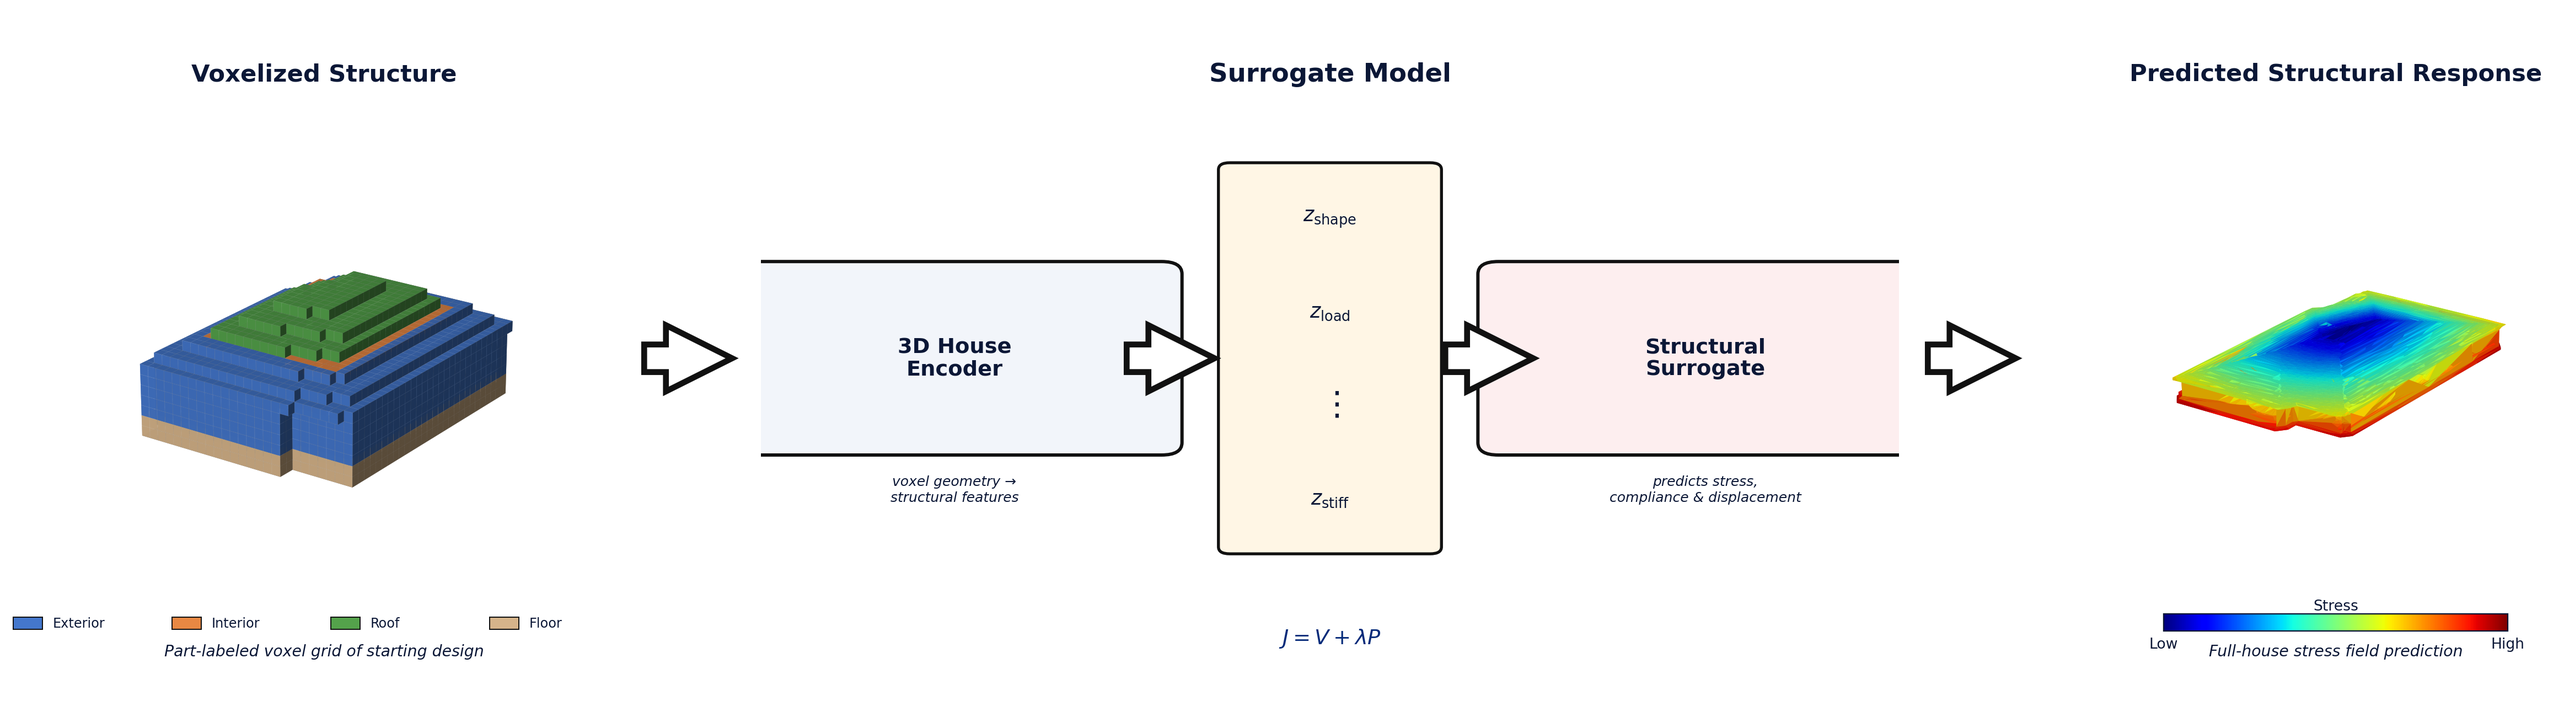
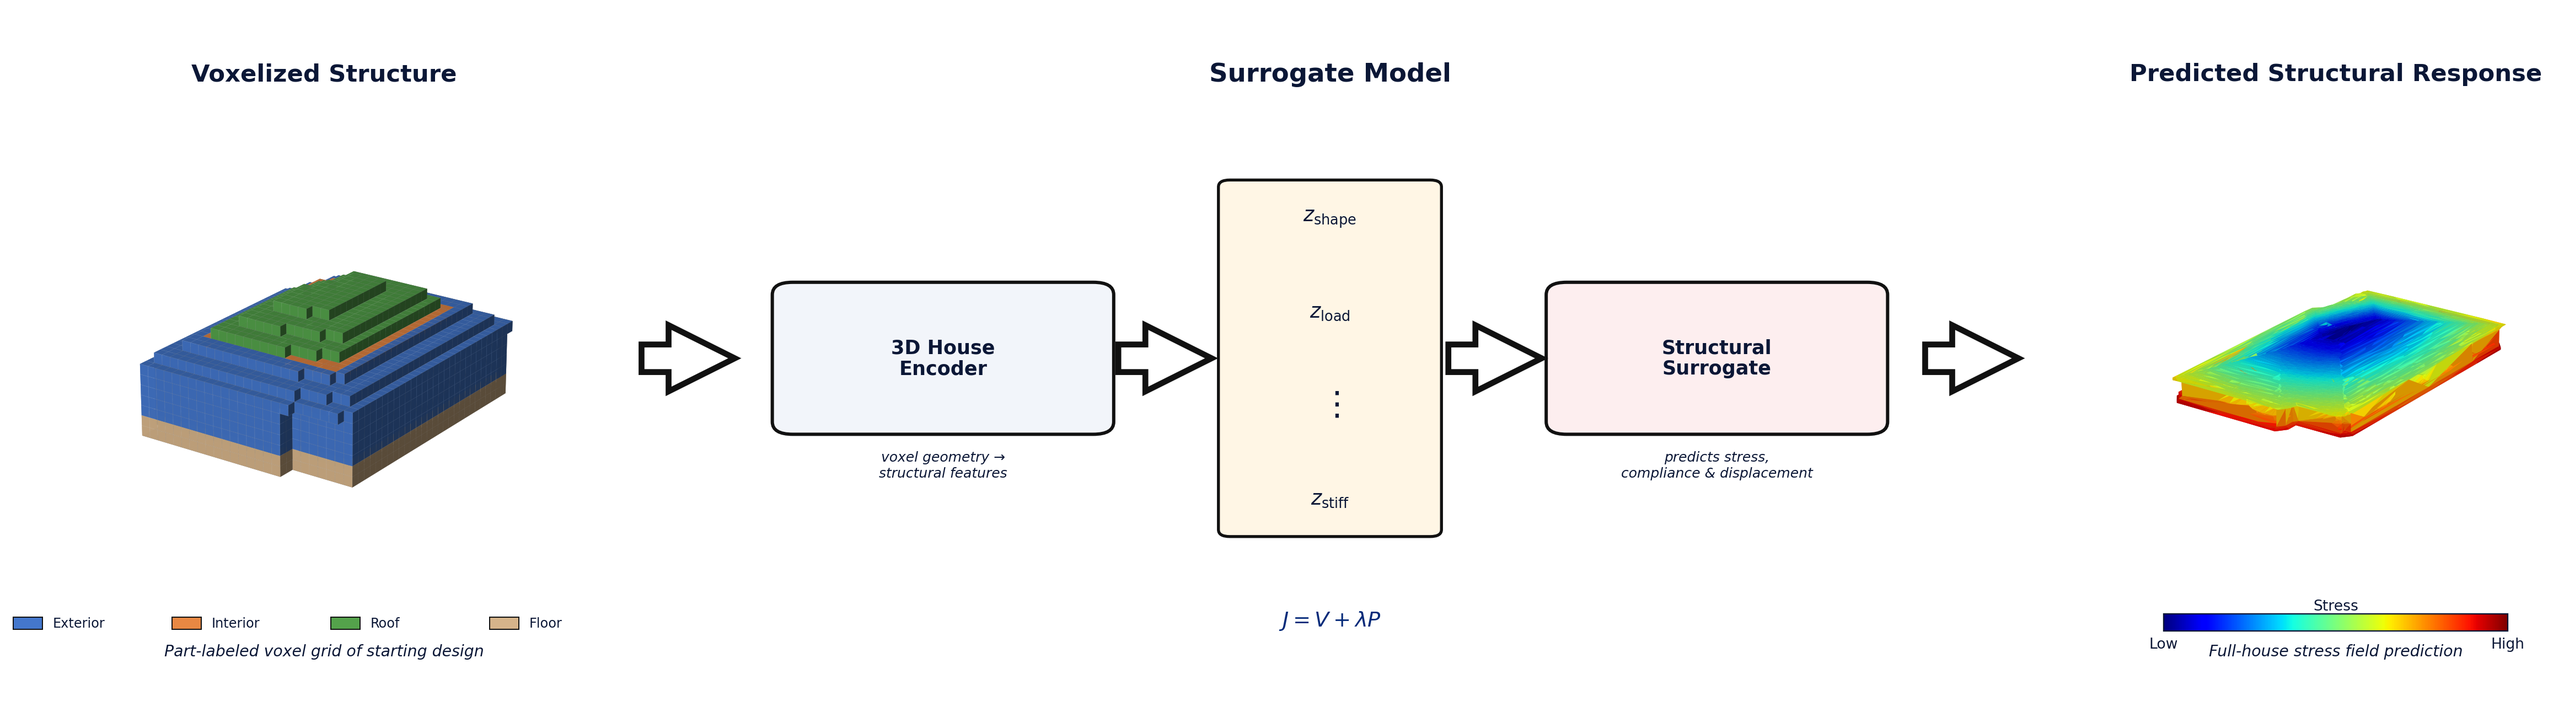
problem framing: fix box clipping, match arrow edges to box edges

diff --git a/generate_problem_framing.py b/generate_problem_framing.py
@@ -30,7 +30,7 @@ ROOF = "#54A24B"
 SLAB = "#D6B48A"
 ARROW_LW  = 3.2
 ARROW_SCALE = 30
-ARROW_DX  = 0.036   # arrow length in figure coords – fits all 4 gaps
+ARROW_DX  = 0.038   # fits inside smallest gap (0.047) with clearance
 TITLE_Y   = 0.870
 SUB_Y     = 0.118   # subtitle row y
 LEG_Y     = 0.147   # legend / colorbar row y
@@ -339,16 +339,21 @@ fig = plt.figure(figsize=(20, 5.8), facecolor=WHITE)
 arrow_y = PANEL_Y + PANEL_H * 0.50
 
 # ── All 4 identical arrows in figure coordinates ──────────────────────────────
-# Outer left: centred in gap between left panel and enc box
-_enc_r_fig  = MID_X + MID_W * 0.310   # enc box right edge
-_vec_l_fig  = MID_X + MID_W * 0.410   # vec box left edge
-_vec_r_fig  = MID_X + MID_W * 0.590   # vec box right edge
-_dec_l_fig  = MID_X + MID_W * 0.690   # dec box left edge
+# Box edges in ax_mid fractions (must match FancyBboxPatch positions below)
+_ENC_R_AX = 0.30   # enc box right edge in ax_mid
+_VEC_L_AX = 0.41   # vec box left  edge in ax_mid
+_VEC_R_AX = 0.59   # vec box right edge in ax_mid
+_DEC_L_AX = 0.70   # dec box left  edge in ax_mid
 
-_a1_cx = (LEFT_X + PANEL_W + MID_X)       / 2   # outer-left gap centre
-_a2_cx = (_enc_r_fig + _vec_l_fig)         / 2   # inner gap 1 centre
-_a3_cx = (_vec_r_fig + _dec_l_fig)         / 2   # inner gap 2 centre
-_a4_cx = (MID_X + MID_W + RIGHT_X)        / 2   # outer-right gap centre
+_enc_r_fig = MID_X + MID_W * _ENC_R_AX
+_vec_l_fig = MID_X + MID_W * _VEC_L_AX
+_vec_r_fig = MID_X + MID_W * _VEC_R_AX
+_dec_l_fig = MID_X + MID_W * _DEC_L_AX
+
+_a1_cx = (LEFT_X + PANEL_W + MID_X)   / 2   # outer-left  gap centre
+_a2_cx = (_enc_r_fig + _vec_l_fig)     / 2   # inner gap 1 centre
+_a3_cx = (_vec_r_fig + _dec_l_fig)     / 2   # inner gap 2 centre
+_a4_cx = (MID_X + MID_W + RIGHT_X)    / 2   # outer-right gap centre
 
 for _cx in [_a1_cx, _a2_cx, _a3_cx, _a4_cx]:
     _sx = _cx - ARROW_DX / 2
@@ -400,27 +405,28 @@ fig.text(MID_X + MID_W / 2, TITLE_Y, "Surrogate Model",
 
 # Convert shared arrow_y to ax_mid fraction
 _ay = (arrow_y - MID_Y_AX) / MID_H_AX
-_bh = 0.26   # box height in ax_mid units
-_bw = 0.38   # box width in ax_mid units
+_bh = 0.20   # box height in ax_mid units (reduced to avoid clipping)
+_bw = 0.28   # box width in ax_mid units
 
-# Encoder box: cx on left third, width matched to _bw
-_ENC_CX = 0.17
-enc_box = FancyBboxPatch((_ENC_CX - _bw/2, _ay - _bh/2), _bw, _bh,
+# Encoder box: anchored at left=0.02, right=_ENC_R_AX=0.30
+_ENC_CX = (_ENC_R_AX + 0.02) / 2   # = 0.16
+enc_box = FancyBboxPatch((0.02, _ay - _bh/2), _bw, _bh,
                          boxstyle="round,pad=0.010,rounding_size=0.018",
                          facecolor="#F2F5FA", edgecolor=BLACK, linewidth=1.8)
 ax_mid.add_patch(enc_box)
 ax_mid.text(_ENC_CX, _ay, "3D House\nEncoder",
-            ha="center", va="center", fontsize=11.5, color=DARK,
+            ha="center", va="center", fontsize=10.5, color=DARK,
             fontweight="bold", linespacing=1.15, multialignment="center")
-ax_mid.text(_ENC_CX, _ay - _bh/2 - 0.06,
+ax_mid.text(_ENC_CX, _ay - _bh/2 - 0.055,
             "voxel geometry →\nstructural features",
             ha="center", va="center", fontsize=7.5, color=DARK,
             fontstyle="italic", linespacing=1.3)
 
-# Latent vector box: narrow, centred
+# Latent vector box: centred at 0.50, edges match _VEC_L_AX/_VEC_R_AX
 _VEC_CX = 0.50
-_vw, _vh = 0.18, 0.55
-vec_box = FancyBboxPatch((_VEC_CX - _vw/2, _ay - _vh/2), _vw, _vh,
+_vw = _VEC_R_AX - _VEC_L_AX   # = 0.18
+_vh = 0.50
+vec_box = FancyBboxPatch((_VEC_L_AX, _ay - _vh/2), _vw, _vh,
                          boxstyle="round,pad=0.008,rounding_size=0.010",
                          facecolor="#FFF6E5", edgecolor=BLACK, linewidth=1.6)
 ax_mid.add_patch(vec_box)
@@ -436,16 +442,16 @@ for k, (lbl, fs) in enumerate(zip(_z_labels, _z_fs), 0):
                 ha="center", va="center", fontsize=fs, color=DARK,
                 fontweight="bold" if r"\vdots" not in lbl else "normal")
 
-# Surrogate/Decoder box: cx on right third, width matched
-_DEC_CX = 0.83
-dec_box = FancyBboxPatch((_DEC_CX - _bw/2, _ay - _bh/2), _bw, _bh,
+# Surrogate/Decoder box: anchored at left=_DEC_L_AX=0.70, right=0.98
+_DEC_CX = (_DEC_L_AX + 0.98) / 2   # = 0.84
+dec_box = FancyBboxPatch((_DEC_L_AX, _ay - _bh/2), _bw, _bh,
                          boxstyle="round,pad=0.010,rounding_size=0.018",
                          facecolor="#FDEEEF", edgecolor=BLACK, linewidth=1.8)
 ax_mid.add_patch(dec_box)
 ax_mid.text(_DEC_CX, _ay, "Structural\nSurrogate",
-            ha="center", va="center", fontsize=11.5, color=DARK,
+            ha="center", va="center", fontsize=10.5, color=DARK,
             fontweight="bold", linespacing=1.15, multialignment="center")
-ax_mid.text(_DEC_CX, _ay - _bh/2 - 0.06,
+ax_mid.text(_DEC_CX, _ay - _bh/2 - 0.055,
             "predicts stress,\ncompliance & displacement",
             ha="center", va="center", fontsize=7.5, color=DARK,
             fontstyle="italic", linespacing=1.3)
